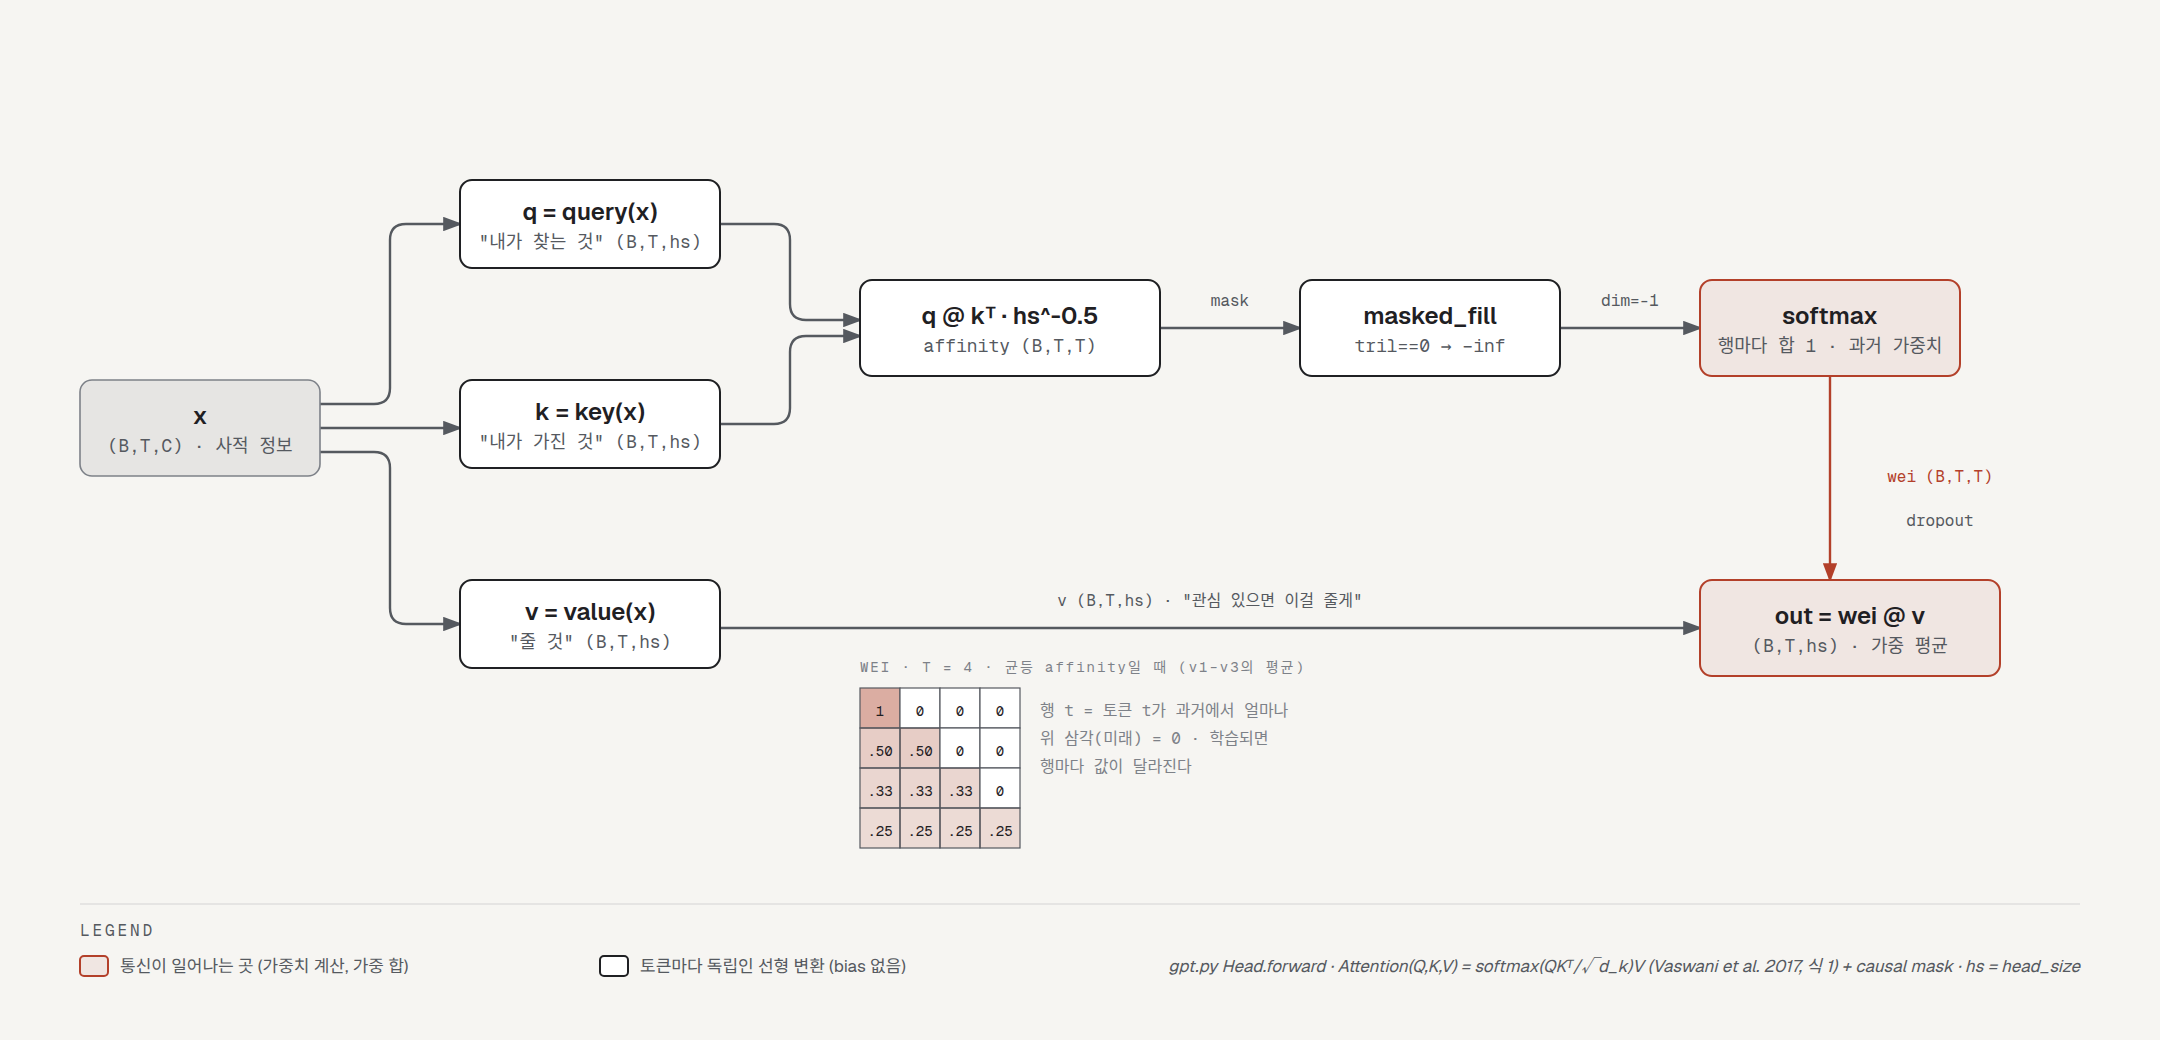
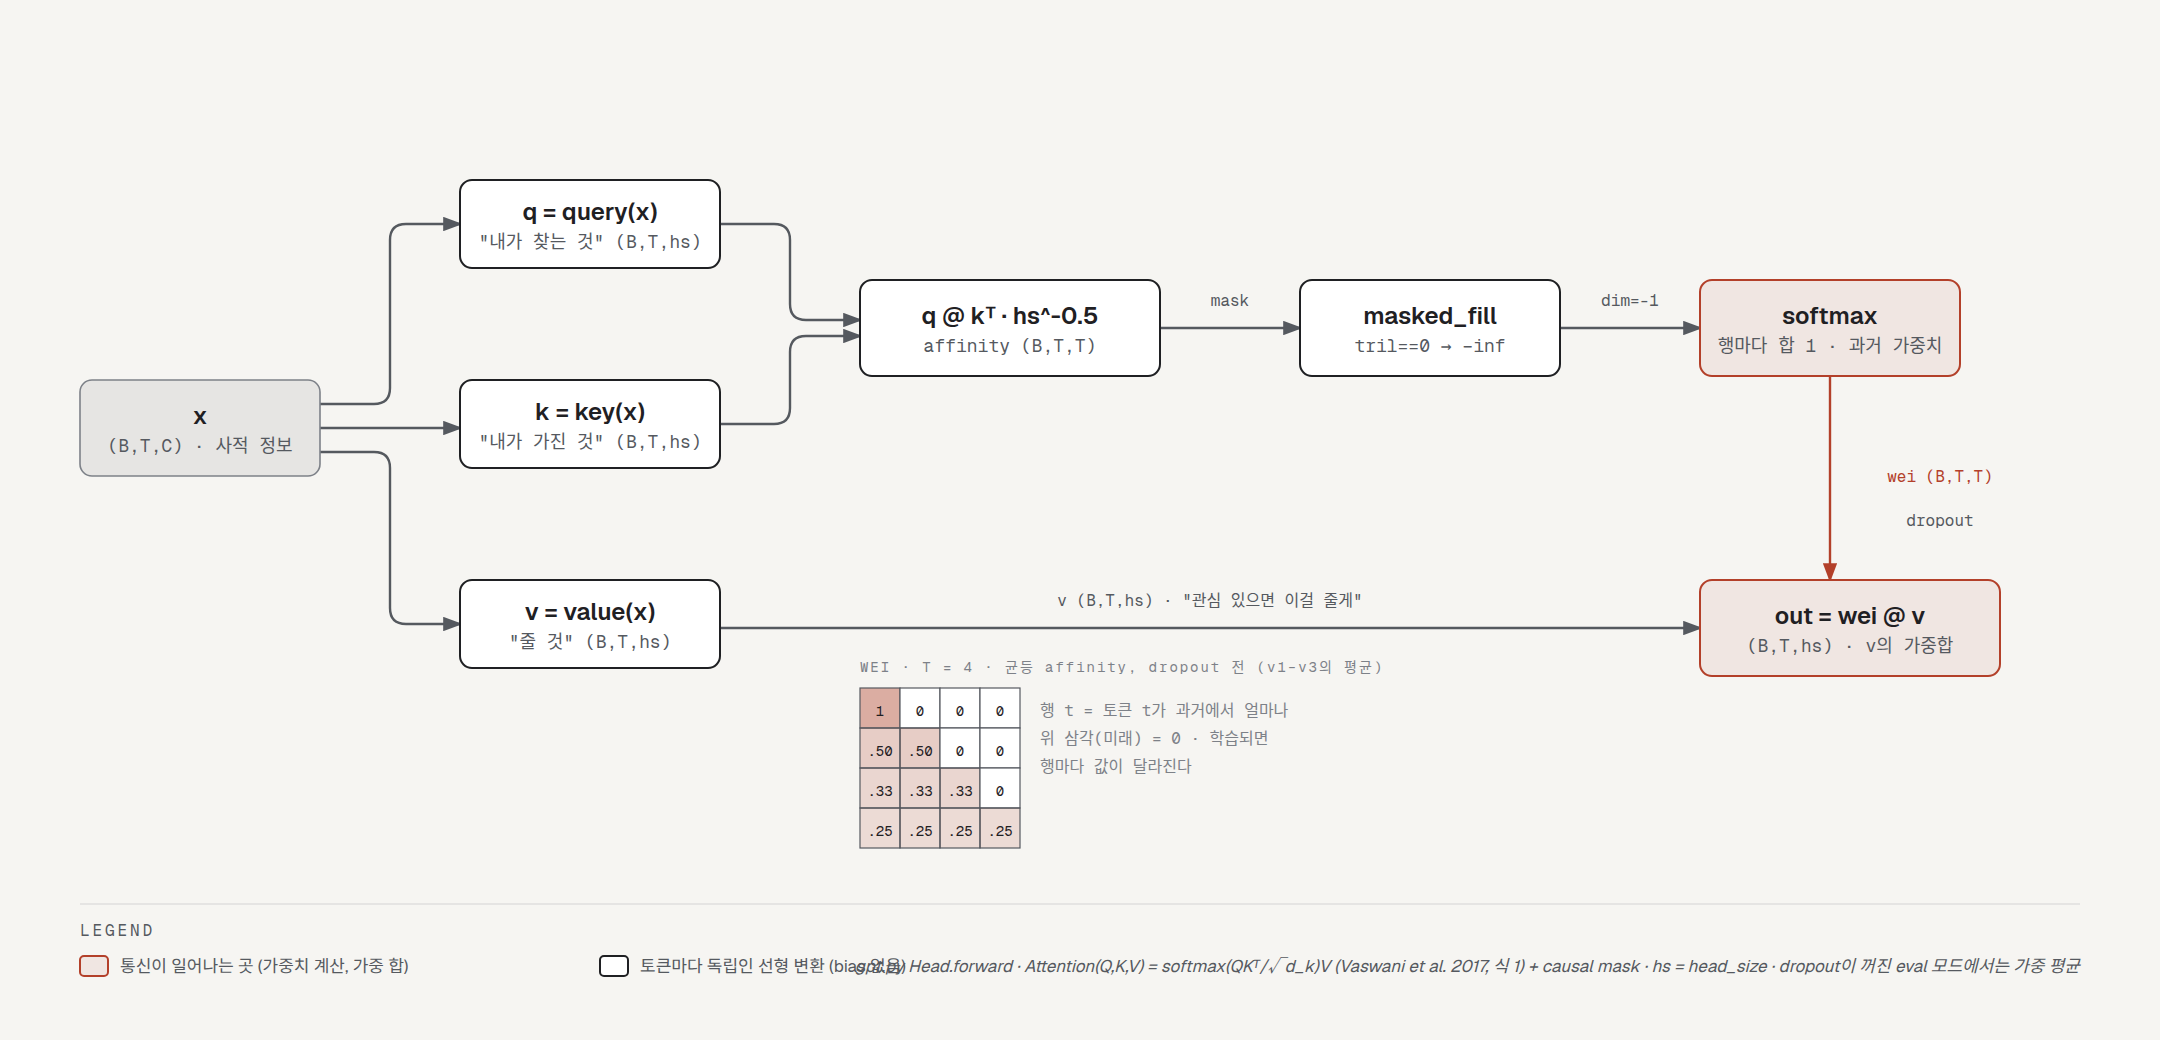
lectures(05): apply Codex review to the Let's build GPT note (third independent review, sandbox restored)
- scaling wording (divide by sqrt(head_size), not by 1/sqrt), LayerNorm "unit Gaussian" corrected to
  mean 0 / var 1 per token, tiny shakespeare is a subset (char-rnn README), "good chunk of internet",
  std 0.02 (not variance), t+1 slice shape, tensor([18]) output, softmax rationale softened
- minimind: pretrain max_seq_len 340 in the scale-up callout too, truncation to max_length-2, SDPA branch
  needs seq_len>1, lecture's output proj has bias while minimind's o_proj does not, PPO/GRPO load a
  pretrained reward model (stage 2 reward-model training not in minimind)
- dropout is on during gpt.py's generate (no eval()), more.txt is Karpathy's output not this server's,
  residual-init "usually" is a general remark, self-attention framed as this lecture's core rather than
  the only new part, stages are not isolated ablations, quiz 2/5/8 conditions, EX2 data-loader tip, EX4 wording
- diagrams: attention out node "weighted sum" (mean only when dropout off), removed duplicate "× n_layer"

Claude-Session: https://claude.ai/code/session_01AzheWvx1RjEtcMseVKvjRo

Changed region(s): [[0.4032, 0.9231, 0.9616, 0.9538], [0.8065, 0.6154, 0.8995, 0.6462], [0.5273, 0.6154, 0.6204, 0.6462]]

diff --git a/lectures/05-karpathy-build-gpt/diagrams/attention-head.html b/lectures/05-karpathy-build-gpt/diagrams/attention-head.html
@@ -62,8 +62,8 @@ body{font-family:var(--font-sans);background:var(--color-paper);color:var(--colo
       <rect x="850" y="290" width="150" height="48" rx="6" fill="#f6f5f2"/>
       <rect x="850" y="290" width="150" height="48" rx="6" fill="rgba(179,64,42,0.08)" stroke="#b3402a" stroke-width="1"/>
       <text x="925.0" y="312.0" fill="#1f2023" font-size="12" font-weight="600" font-family="'Geist', 'Noto Sans KR', sans-serif" text-anchor="middle">out = wei @ v</text>
-      <text x="925.0" y="326.0" fill="#55595f" font-size="9" font-family="'Geist Mono', monospace" text-anchor="middle">(B,T,hs) · 가중 평균</text>
-      <text x="430" y="336" fill="#7d8188" font-size="7" font-family="'Geist Mono', monospace" letter-spacing="0.14em">WEI · T = 4 · 균등 affinity일 때 (v1–v3의 평균)</text>
+      <text x="925.0" y="326.0" fill="#55595f" font-size="9" font-family="'Geist Mono', monospace" text-anchor="middle">(B,T,hs) · v의 가중합</text>
+      <text x="430" y="336" fill="#7d8188" font-size="7" font-family="'Geist Mono', monospace" letter-spacing="0.14em">WEI · T = 4 · 균등 affinity, dropout 전 (v1–v3의 평균)</text>
       <rect x="430" y="344" width="20" height="20" fill="rgba(179,64,42,0.40)" stroke="#55595f" stroke-width="0.6"/>
       <text x="440.0" y="358" fill="#1f2023" font-size="7" font-family="'Geist Mono', monospace" text-anchor="middle">1</text>
       <rect x="450" y="344" width="20" height="20" fill="#ffffff" stroke="#55595f" stroke-width="0.6"/>
@@ -103,5 +103,5 @@ body{font-family:var(--font-sans);background:var(--color-paper);color:var(--colo
       <text x="40" y="468" fill="#55595f" font-size="8" font-family="'Geist Mono', monospace" letter-spacing="0.18em">LEGEND</text>
       <rect x="40" y="478" width="14" height="10" rx="2" fill="rgba(179,64,42,0.08)" stroke="#b3402a" stroke-width="1"/><text x="60" y="486" fill="#55595f" font-size="8.5" font-family="'Geist', 'Noto Sans KR', sans-serif">통신이 일어나는 곳 (가중치 계산, 가중 합)</text>
       <rect x="300" y="478" width="14" height="10" rx="2" fill="#ffffff" stroke="#1f2023" stroke-width="1"/><text x="320" y="486" fill="#55595f" font-size="8.5" font-family="'Geist', 'Noto Sans KR', sans-serif">토큰마다 독립인 선형 변환 (bias 없음)</text>
-      <text x="1040" y="486" fill="#55595f" font-size="8.5" font-family="'Geist', 'Noto Sans KR', sans-serif" font-style="italic" text-anchor="end">gpt.py Head.forward · Attention(Q,K,V) = softmax(QKᵀ/√d_k)V (Vaswani et al. 2017, 식 1) + causal mask · hs = head_size</text>
+      <text x="1040" y="486" fill="#55595f" font-size="8.5" font-family="'Geist', 'Noto Sans KR', sans-serif" font-style="italic" text-anchor="end">gpt.py Head.forward · Attention(Q,K,V) = softmax(QKᵀ/√d_k)V (Vaswani et al. 2017, 식 1) + causal mask · hs = head_size · dropout이 꺼진 eval 모드에서는 가중 평균</text>
     </svg></div></body></html>

diff --git a/lectures/05-karpathy-build-gpt/diagrams/decoder-block.html b/lectures/05-karpathy-build-gpt/diagrams/decoder-block.html
@@ -19,8 +19,6 @@ body{font-family:var(--font-sans);background:var(--color-paper);color:var(--colo
       <rect x="212.0" y="184" width="60.0" height="12" rx="2" fill="#f6f5f2"/>
       <text x="242.0" y="193" fill="#55595f" font-size="8" font-family="'Geist Mono', monospace" text-anchor="middle">x (B,T,C)</text>
       <line x1="180.0" y1="280" x2="180.0" y2="320" stroke="#55595f" stroke-width="1.2" marker-end="url(#arrow)"/>
-      <rect x="220.0" y="292" width="60.0" height="12" rx="2" fill="#f6f5f2"/>
-      <text x="250.0" y="301" fill="#55595f" font-size="8" font-family="'Geist Mono', monospace" text-anchor="middle">× n_layer</text>
       <line x1="180.0" y1="364" x2="180.0" y2="380" stroke="#55595f" stroke-width="1.2" marker-end="url(#arrow)"/>
       <line x1="180.0" y1="424" x2="180.0" y2="440" stroke="#55595f" stroke-width="1.2" marker-end="url(#arrow)"/>
       <path d="M 300,250 H 352 Q 360,250 360,242 V 78 Q 360,70 368,70 H 400" fill="none" stroke="#55595f" stroke-width="1" stroke-dasharray="4,3" marker-end="url(#arrow)"/>

diff --git a/lectures/05-karpathy-build-gpt/diagrams/generate.py b/lectures/05-karpathy-build-gpt/diagrams/generate.py
@@ -66,7 +66,7 @@ def decoder():
     b += f'      <path d="M 275,114 V 146 Q 275,154 267,154 H {cx+14}" fill="none" stroke="{MUTED}" stroke-width="1.2" marker-end="url(#arrow)"/>\n'
     b += f'      <circle cx="{cx}" cy="154" r="9" fill="{PAPER}" stroke="{INK}" stroke-width="1"/><text x="{cx}" y="158" fill="{INK}" font-size="12" font-family="{SANS}" text-anchor="middle">+</text>\n'
     b += varrow(163, 220); b += label(cx+62, 192, 'x (B,T,C)', w=60)
-    b += varrow(280, 320); b += label(cx+70, 300, '× n_layer', w=60)
+    b += varrow(280, 320)
     b += varrow(364, 380); b += varrow(424, 440)
     # zoom link from BLK to right panel (dashed)
     b += f'      <path d="M {MX+MW},250 H 352 Q 360,250 360,242 V 78 Q 360,70 368,70 H 400" fill="none" stroke="{MUTED}" stroke-width="1" stroke-dasharray="4,3" marker-end="url(#arrow)"/>\n'
@@ -149,11 +149,11 @@ def attention():
     b += node(*S, 'q @ kᵀ · hs^-0.5', 'affinity (B,T,T)', 'step')
     b += node(*M, 'masked_fill', 'tril==0 → −inf', 'step')
     b += node(*SM, 'softmax', '행마다 합 1 · 과거 가중치', 'focal')
-    b += node(*O, 'out = wei @ v', '(B,T,hs) · 가중 평균', 'focal')
+    b += node(*O, 'out = wei @ v', '(B,T,hs) · v의 가중합', 'focal')
     # mini matrix illustration of wei for T=4 below
     mx, my, c = 430, 344, 20
     vals = [[1,0,0,0],[.5,.5,0,0],[.33,.33,.33,0],[.25,.25,.25,.25]]
-    b += f'      <text x="{mx}" y="{my-8}" fill="{SOFT}" font-size="7" font-family="{MONO}" letter-spacing="0.14em">WEI · T = 4 · 균등 affinity일 때 (v1–v3의 평균)</text>\n'
+    b += f'      <text x="{mx}" y="{my-8}" fill="{SOFT}" font-size="7" font-family="{MONO}" letter-spacing="0.14em">WEI · T = 4 · 균등 affinity, dropout 전 (v1–v3의 평균)</text>\n'
     for i in range(4):
         for j in range(4):
             fval = vals[i][j]; fill = f'rgba(179,64,42,{0.05+0.35*fval:.2f})' if fval>0 else '#ffffff'
@@ -169,7 +169,7 @@ def attention():
     b += f'      <text x="40" y="{ly+6}" fill="{MUTED}" font-size="8" font-family="{MONO}" letter-spacing="0.18em">LEGEND</text>\n'
     b += f'      <rect x="40" y="{ly+16}" width="14" height="10" rx="2" fill="{ACCT}" stroke="{ACC}" stroke-width="1"/><text x="60" y="{ly+24}" fill="{MUTED}" font-size="8.5" font-family="{SANS}">통신이 일어나는 곳 (가중치 계산, 가중 합)</text>\n'
     b += f'      <rect x="300" y="{ly+16}" width="14" height="10" rx="2" fill="#ffffff" stroke="{INK}" stroke-width="1"/><text x="320" y="{ly+24}" fill="{MUTED}" font-size="8.5" font-family="{SANS}">토큰마다 독립인 선형 변환 (bias 없음)</text>\n'
-    b += f'      <text x="{W-40}" y="{ly+24}" fill="{MUTED}" font-size="8.5" font-family="{SANS}" font-style="italic" text-anchor="end">gpt.py Head.forward · Attention(Q,K,V) = softmax(QKᵀ/√d_k)V (Vaswani et al. 2017, 식 1) + causal mask · hs = head_size</text>\n'
+    b += f'      <text x="{W-40}" y="{ly+24}" fill="{MUTED}" font-size="8.5" font-family="{SANS}" font-style="italic" text-anchor="end">gpt.py Head.forward · Attention(Q,K,V) = softmax(QKᵀ/√d_k)V (Vaswani et al. 2017, 식 1) + causal mask · hs = head_size · dropout이 꺼진 eval 모드에서는 가중 평균</text>\n'
     html = page('Let\'s build GPT · self-attention head', 'Data flow · Let\'s build GPT', 'Self-attention head 하나: 무엇을 찾고, 무엇을 갖고, 무엇을 주나', 'attention-head',
                 'self-attention head 하나의 텐서 흐름', '입력 x에서 query, key, value를 각각 선형 변환으로 만들고, q와 k의 내적을 head_size의 제곱근으로 나눠 affinity를 얻고, 미래 위치를 −inf로 가린 뒤 softmax로 행마다 합이 1인 가중치를 만들어 value의 가중 평균을 출력한다.', b, W, H)
     open(os.path.join(HERE, 'attention-head.html'), 'w', encoding='utf-8').write(html)
